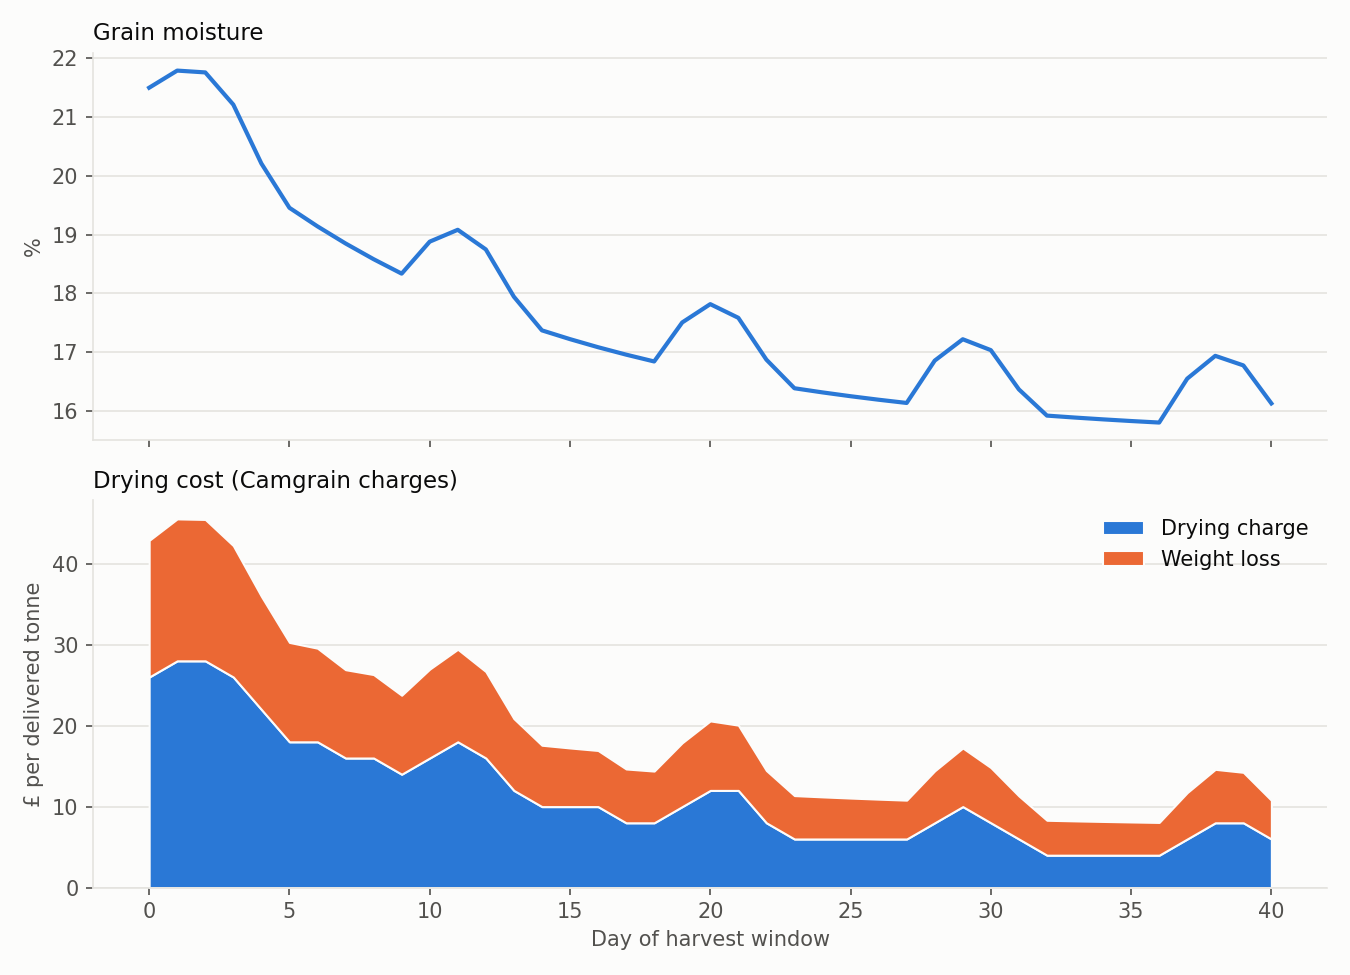
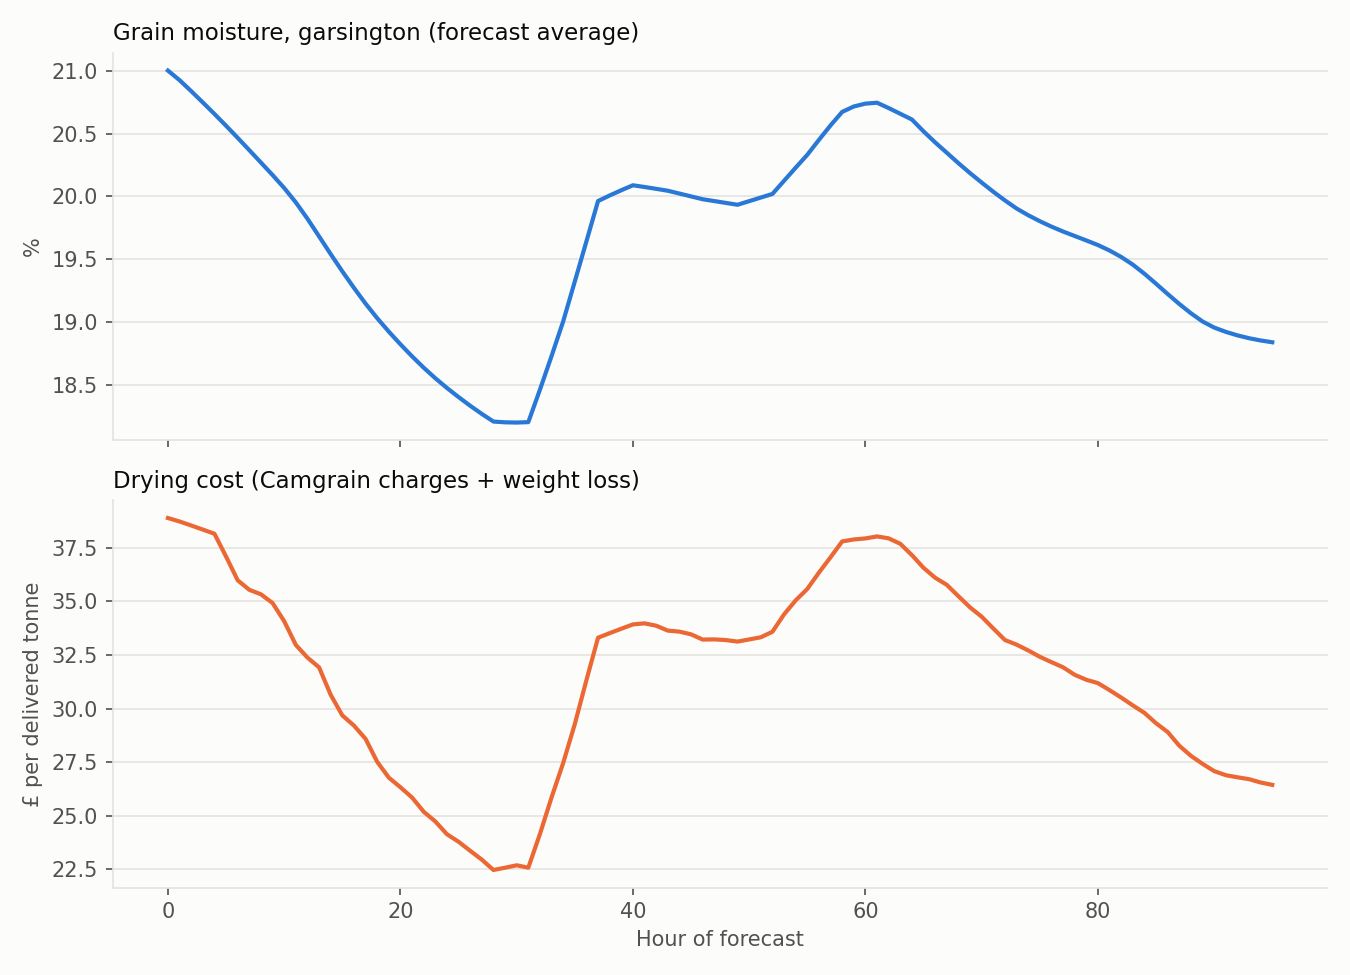
hey

diff --git a/harvest/value.py b/harvest/value.py
@@ -25,6 +25,34 @@ def predict_moisture(start_moisture, weather, params):
     return moisture
 
 
+def crop_numbers(params, key):
+    """One crop number per field, e.g. key="price_gbp_per_t". Returns [1, field, 1]."""
+    crops = [params["crops"][field["crop"]] for field in params["fields"]]
+    return np.array([crop[key] for crop in crops], dtype=float)[None, :, None]
+
+
+def drying_cost_gbp_per_t(moisture, params):
+    """£ per tonne to have the store dry the grain, using Camgrain's published charges.
+
+    Source: https://www.camgrain.co.uk/charges-for-2025 (cereals, harvest 2026). The handling
+    charge and throughput loss are paid whatever the moisture, so they're left out.
+
+    moisture: [member, field, hour]  grain moisture, % (from predict_moisture)
+    returns:  [member, field, hour]  drying charge + value of the weight deducted, £/t
+    """
+    # a flat charge per 0.5% band above 15%: 15.1-15.5% -> £2, 15.6-16.0% -> £4, ...
+    # (rounding first so 15.5% lands in the first band, not the second)
+    excess_pct = np.round(moisture, 1) - params["free_drying_up_to_pct"]
+    bands = np.maximum(0, np.ceil(np.round(excess_pct / params["drying_band_pct"], 6)))
+    charge_gbp_per_t = params["drying_charge_gbp_per_band"] * bands
+
+    # the store also keeps some weight for every point of moisture it removes
+    removed_pct = np.maximum(0, moisture - params["target_moisture_pct"])
+    weight_loss_pct = params["weight_loss_pct_per_pct"] * removed_pct
+    price = crop_numbers(params, "price_gbp_per_t")
+    return charge_gbp_per_t + price * weight_loss_pct / 100
+
+
 def field_values(weather, start_moisture, params, first_hour=0):
     """Expected £ per hectare if each field is harvested in each hour (0 when it can't be).
 
@@ -35,13 +63,11 @@ def field_values(weather, start_moisture, params, first_hour=0):
     """
     moisture = predict_moisture(start_moisture, weather, params)  # [member, field, hour]
 
-    crops = [params["crops"][field["crop"]] for field in params["fields"]]
-    price = np.array([crop["price_gbp_per_t"] for crop in crops])[None, :, None]
-    tonnes = np.array([crop["yield_t_per_ha"] for crop in crops])[None, :, None]
+    price = crop_numbers(params, "price_gbp_per_t")
+    tonnes = crop_numbers(params, "yield_t_per_ha")
 
-    # grain sold, minus the cost of drying anything wetter than the target
-    too_wet_pct = np.maximum(0, moisture - params["target_moisture_pct"])
-    gbp_per_ha = tonnes * (price - params["drying_cost_gbp_per_t_per_pct"] * too_wet_pct)
+    # grain sold, minus what the store charges to dry it
+    gbp_per_ha = tonnes * (price - drying_cost_gbp_per_t(moisture, params))
 
     # the longer the crop stands, the more of it is lost
     hours_waited = first_hour + np.arange(moisture.shape[2])

diff --git a/plot_drying_cost.py b/plot_drying_cost.py
@@ -1,0 +1,71 @@
+"""Drying cost over the forecast for one field: predict_moisture -> drying_cost_gbp_per_t.
+
+Run:  uv run python plot_drying_cost.py [field_name]   (default: the first field in params.yaml)
+"""
+
+import sys
+from pathlib import Path
+
+import matplotlib.pyplot as plt
+import numpy as np
+import yaml
+
+from harvest.forecast import load_forecast
+from harvest.value import drying_cost_gbp_per_t, predict_moisture
+
+ROOT = Path(__file__).parent
+OUTPUT = ROOT / "outputs" / "cost_curve.png"
+
+# Reference categorical palette (light mode), slots 1-2, and text/surface tokens.
+BLUE, ORANGE = "#2a78d6", "#eb6834"
+TEXT, MUTED, SURFACE, GRID = "#0b0b0b", "#52514e", "#fcfcfb", "#e4e3df"
+
+
+def style(ax, title, ylabel):
+    ax.set_title(title, loc="left", color=TEXT, fontsize=11)
+    ax.set_ylabel(ylabel, color=MUTED)
+    ax.set_facecolor(SURFACE)
+    ax.set_axisbelow(True)
+    ax.grid(axis="y", color=GRID, linewidth=0.8)
+    ax.tick_params(colors=MUTED)
+    for side in ("top", "right"):
+        ax.spines[side].set_visible(False)
+    for side in ("left", "bottom"):
+        ax.spines[side].set_color(GRID)
+
+
+def main():
+    params = yaml.safe_load((ROOT / "params.yaml").read_text(encoding="utf-8"))
+    names = [field["name"] for field in params["fields"]]
+    name = sys.argv[1] if len(sys.argv) > 1 else names[0]
+    f = names.index(name)
+
+    weather = load_forecast(ROOT / "data" / "forecast.csv", params)
+    start_moisture = np.array([field["start_moisture_pct"] for field in params["fields"]])
+    moisture = predict_moisture(start_moisture, weather, params)  # [member, field, hour]
+    cost = drying_cost_gbp_per_t(moisture, params)  # [member, field, hour]
+
+    # cost per member first, then average, same as field_values does
+    moisture, cost = moisture[:, f].mean(axis=0), cost[:, f].mean(axis=0)  # [hour]
+    hours = np.arange(len(cost))
+
+    print(f"{'hour':>5} {'moist%':>7} {'cost £/t':>9}")
+    for row in zip(hours, moisture, cost):
+        print("{:5.0f} {:7.2f} {:9.2f}".format(*row))
+    best = cost.argmin()
+    print(f"\nCheapest hour: {best} ({moisture[best]:.2f}% -> £{cost[best]:.2f}/t)")
+
+    fig, axes = plt.subplots(2, 1, figsize=(9, 6.5), sharex=True, facecolor=SURFACE)
+    axes[0].plot(hours, moisture, color=BLUE, linewidth=2)
+    style(axes[0], f"Grain moisture, {name} (forecast average)", "%")
+    axes[1].plot(hours, cost, color=ORANGE, linewidth=2)
+    style(axes[1], "Drying cost (Camgrain charges + weight loss)", "£ per delivered tonne")
+    axes[1].set_xlabel("Hour of forecast", color=MUTED)
+    fig.tight_layout()
+    OUTPUT.parent.mkdir(exist_ok=True)
+    fig.savefig(OUTPUT, dpi=150, facecolor=SURFACE)
+    print(f"Saved plot to {OUTPUT}")
+
+
+if __name__ == "__main__":
+    main()

diff --git a/tests/test_pipeline.py b/tests/test_pipeline.py
@@ -8,7 +8,7 @@ import yaml
 
 from harvest.forecast import load_forecast
 from harvest.simulate import run_season
-from harvest.value import field_values
+from harvest.value import drying_cost_gbp_per_t, field_values
 
 ROOT = Path(__file__).parent.parent
 
@@ -37,8 +37,8 @@ def tiny_farm():
             "dear": {"price_gbp_per_t": 80, "yield_t_per_ha": 1},
         },
         fields=[
-            {"name": "f0", "crop": "cheap", "area_ha": 4, "start_moisture_pct": 14.5},
-            {"name": "f1", "crop": "dear", "area_ha": 2, "start_moisture_pct": 14.5},
+            {"name": "f0", "crop": "cheap", "area_ha": 4, "start_moisture_pct": 14},
+            {"name": "f1", "crop": "dear", "area_ha": 2, "start_moisture_pct": 14},
         ],
         machines=[{"name": "m0", "ha_per_hour": 1, "start": "f0"}],
         travel_hours=[[0, 2, 2], [2, 0, 2], [2, 2, 0]],
@@ -73,6 +73,17 @@ def test_value_has_one_number_per_field_and_hour():
     value = field_values(weather, moisture, params)
     assert value.shape == weather["rain_mm"].shape[1:]
     assert (value >= 0).all()
+
+
+def test_drying_cost_follows_camgrain_bands():
+    params = demo_params()
+    params["fields"] = [{"name": "f0", "crop": "free"}, {"name": "f1", "crop": "dear"}]
+    params["crops"] = {"free": {"price_gbp_per_t": 0}, "dear": {"price_gbp_per_t": 200}}
+    moisture = np.array([[[14.0, 15.0, 15.1, 15.5, 15.6, 16.0]] * 2])  # [member, field, hour]
+    cost = drying_cost_gbp_per_t(moisture, params)
+    assert cost[0, 0] == pytest.approx([0, 0, 2, 2, 4, 4])  # price 0 leaves only the charge
+    # at 16%: £4 charge + 2 points x 1.25% of a £200 tonne = £5 of weight lost
+    assert cost[0, 1, -1] == pytest.approx(9)
 
 
 def test_simulator_counts_driving_and_harvesting():
